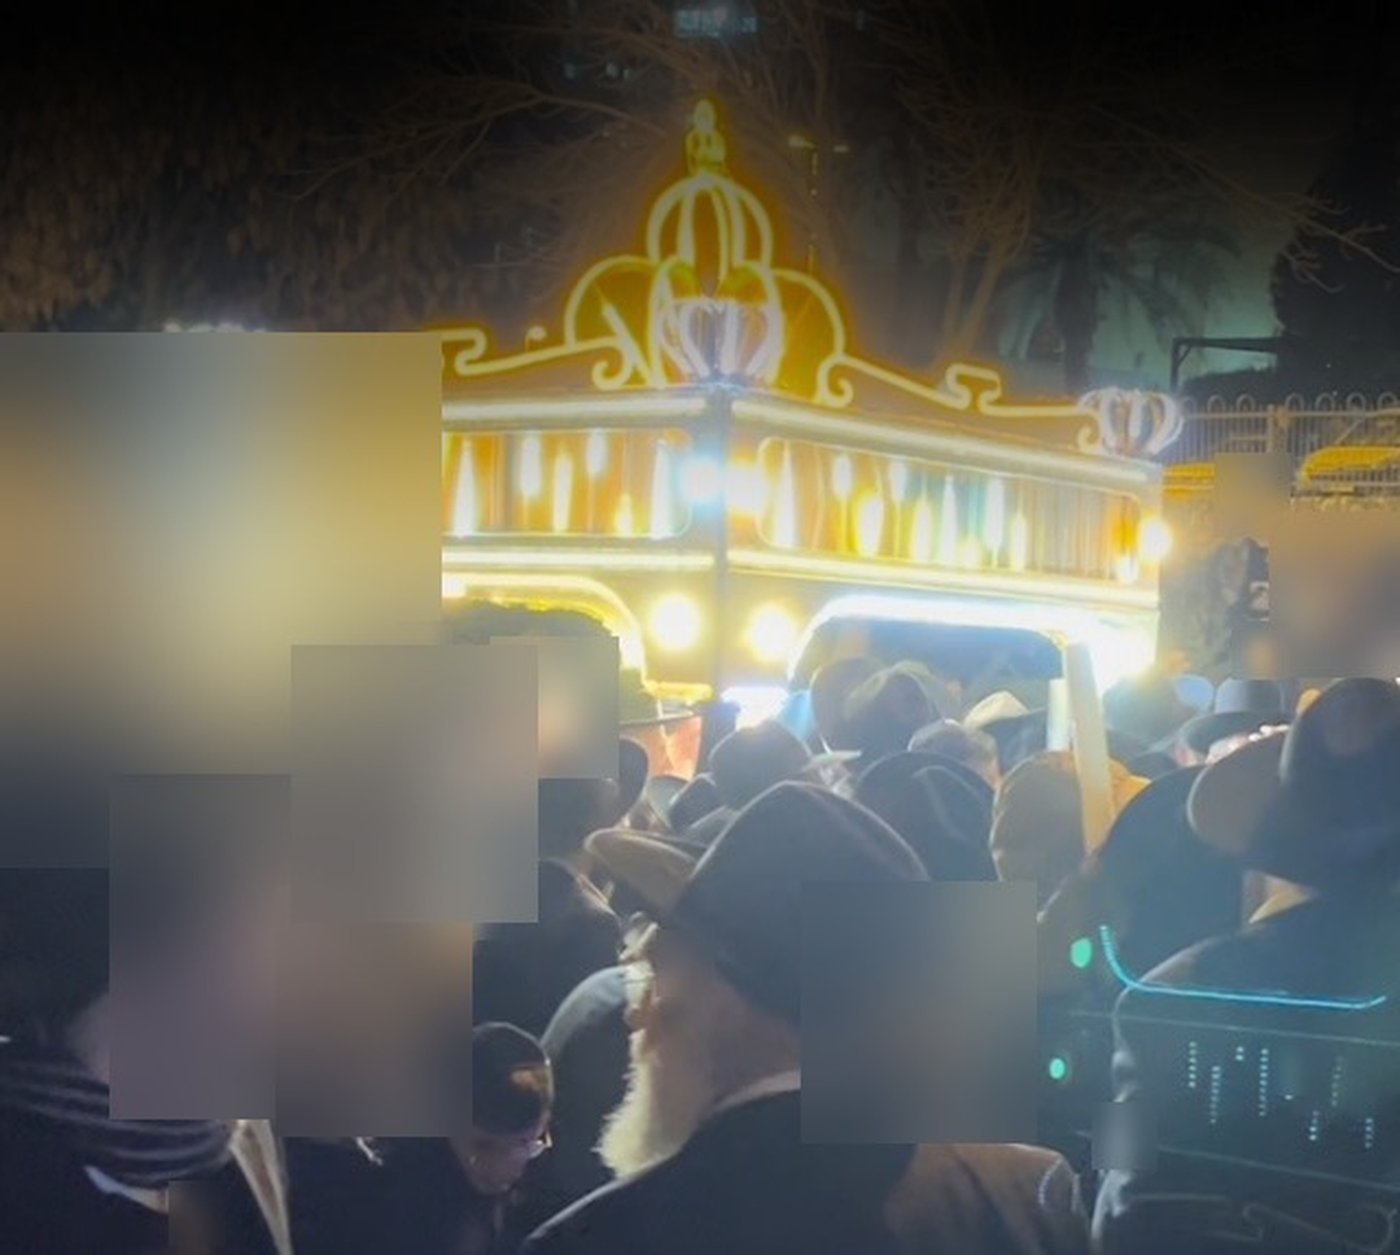
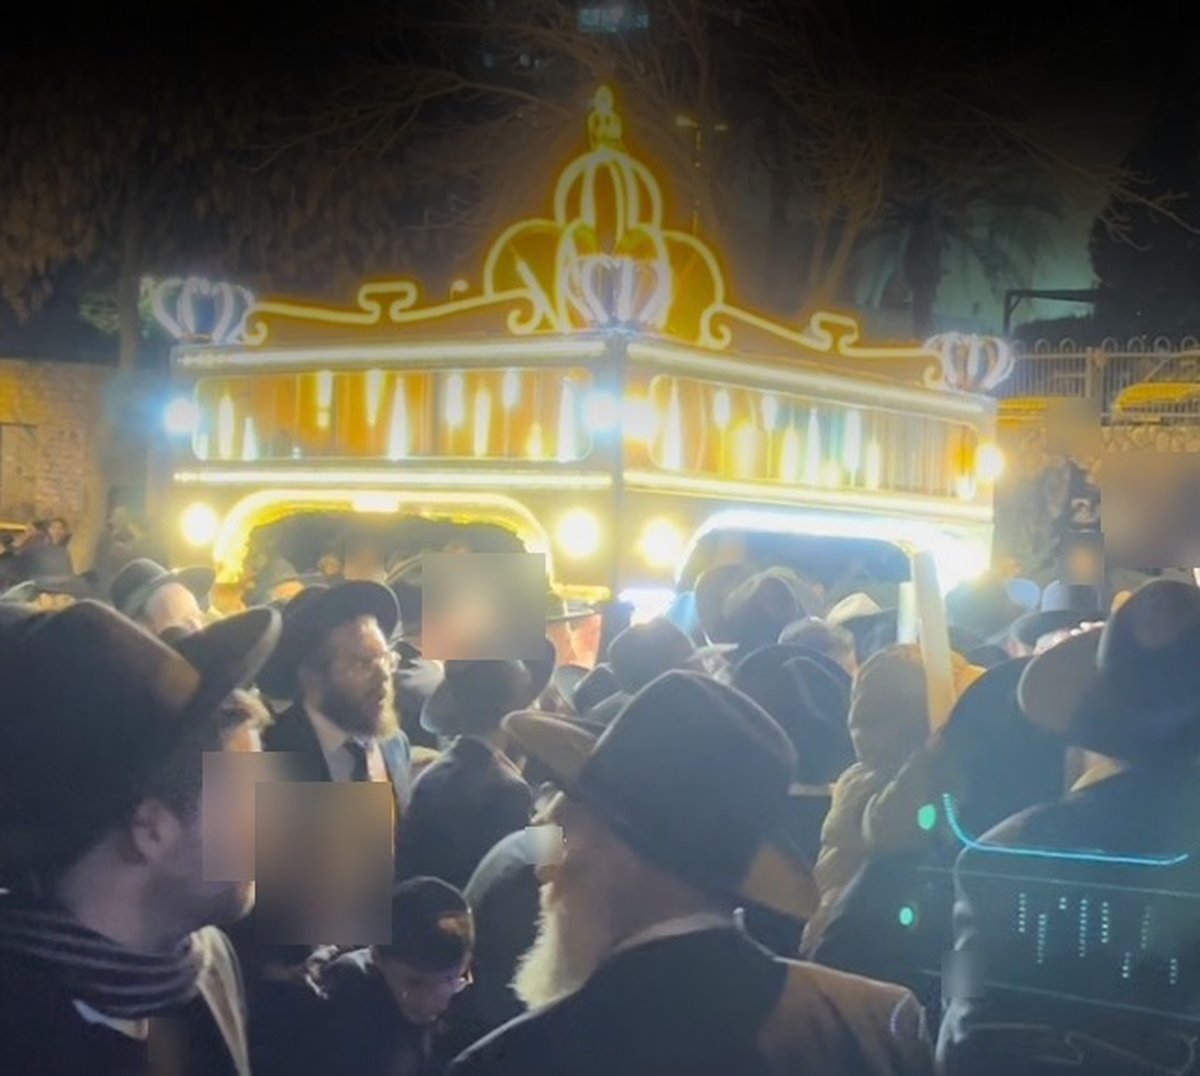
Fix chuppah crop/blur, add hero photo, simplify gallery and contact
- Chuppah showcase image is now a real <img> instead of a
  background-cover div, so the full photo shows uncropped; also
  regenerated it with tighter, better-sized face blurring.
- Added a new hero-section photo (left column) using an uncropped,
  unblurred crop of the chuppah photo with a prominent
  "חופה מרהיבה לבחירתך!!" caption, per explicit request.
- Removed the rightmost gallery photo, leaving 2 symmetric items;
  fixed the car photo's letterbox color from blue to black; cropped
  a second vehicle out of the crowd photo.
- Reversed the contact section: removed the contact form entirely and
  restored phone/WhatsApp/email contact links.

Claude-Session: https://claude.ai/code/session_01D8eu7GUbxEioHt2D6r7AZ8

diff --git a/zvulun-torah-events/index.html b/zvulun-torah-events/index.html
@@ -85,19 +85,25 @@
     <div class="stars" aria-hidden="true"></div>
     <div class="hero-bg" style="background-image:url('images/showcase-crown.jpg')"></div>
     <div class="hero-overlay"></div>
-    <div class="wrap hero-content">
-      <p class="eyelash">ליווי ספר התורה מהבית עד לבית הכנסת בשירה ובריקודים</p>
-      <h1>הכנסת ספר תורה</h1>
-      <p class="lead">רכב מפואר בכתרי תורה, חופה מוארת לבחירתכם!</p>
-      <div class="hero-actions">
-        <a class="btn btn-gold btn-lg" href="tel:0506927171">
-          <svg class="icon" aria-hidden="true"><use href="#icon-phone"/></svg> התקשרו עכשיו: 050-6927171
-        </a>
-        <a class="btn btn-outline btn-lg" href="https://wa.me/972506927171?text=שלום%2C%20אשמח%20לפרטים%20על%20הכנסת%20ספר%20תורה" target="_blank" rel="noopener">
-          <svg class="icon" aria-hidden="true"><use href="#icon-chat"/></svg> וואטסאפ
-        </a>
+    <div class="wrap hero-inner">
+      <div class="hero-content">
+        <p class="eyelash">ליווי ספר התורה מהבית עד לבית הכנסת בשירה ובריקודים</p>
+        <h1>הכנסת ספר תורה</h1>
+        <p class="lead">רכב מפואר בכתרי תורה, חופה מוארת לבחירתכם!</p>
+        <div class="hero-actions">
+          <a class="btn btn-gold btn-lg" href="tel:0506927171">
+            <svg class="icon" aria-hidden="true"><use href="#icon-phone"/></svg> התקשרו עכשיו: 050-6927171
+          </a>
+          <a class="btn btn-outline btn-lg" href="https://wa.me/972506927171?text=שלום%2C%20אשמח%20לפרטים%20על%20הכנסת%20ספר%20תורה" target="_blank" rel="noopener">
+            <svg class="icon" aria-hidden="true"><use href="#icon-chat"/></svg> וואטסאפ
+          </a>
+        </div>
+        <p class="trust-line">ניסיון רב שנים!! כל השמח באירוע שלך!!</p>
       </div>
-      <p class="trust-line">ניסיון רב שנים!! כל השמח באירוע שלך!!</p>
+      <figure class="hero-photo">
+        <img src="images/chuppah-hero.jpg" alt="חופה מרהיבה לבחירתך - חופת גלגלים מוארת בכתרים" width="1000" height="896" loading="eager">
+        <figcaption>חופה מרהיבה לבחירתך!!</figcaption>
+      </figure>
     </div>
   </section>
 
@@ -134,7 +140,7 @@
     <div class="wrap">
       <h2 class="reveal">חופה מרהיבה לבחירתך!!</h2>
       <p class="section-lead reveal">חופת גלגלים מפוארת - מוארת בכתרים ומנורות לדים זוהרים</p>
-      <div class="chuppah-photo reveal" style="background-image:url('images/chuppah-large.jpg')"></div>
+      <img class="chuppah-photo reveal" src="images/chuppah-large.jpg" alt="חופה מרהיבה לבחירתך - חופת גלגלים מוארת בכתרים ומנורות לד" width="1200" height="1076" loading="lazy">
     </div>
   </section>
 
@@ -158,7 +164,6 @@
     <div class="wrap">
       <h2 class="reveal">רגע מהתהלוכה</h2>
       <div class="gallery-grid">
-        <div class="gallery-item reveal" style="background-image:url('images/showcase-crown.jpg')"></div>
         <div class="gallery-item gallery-item-contain reveal" style="background-image:url('images/hero-bg.jpg')"></div>
         <div class="gallery-item reveal" style="background-image:url('images/showcase-crowd.jpg')"></div>
       </div>
@@ -168,23 +173,18 @@
   <section class="section contact-section" id="contact">
     <div class="wrap">
       <h2 class="reveal">יצירת קשר</h2>
-      <form class="contact-form reveal" id="contactForm">
-        <label>שם מלא
-          <input type="text" name="name" required autocomplete="name">
-        </label>
-        <label>טלפון
-          <input type="tel" name="phone" required autocomplete="tel">
-        </label>
-        <label>תאריך האירוע (אם ידוע)
-          <input type="text" name="date" placeholder="לדוגמה: כ״ה בכסלו">
-        </label>
-        <label>פרטים נוספים
-          <textarea name="message" rows="4" placeholder="ספרו לנו קצת על האירוע..."></textarea>
-        </label>
-        <button type="submit" class="btn btn-gold btn-lg btn-block">
-          <svg class="icon" aria-hidden="true"><use href="#icon-chat"/></svg> שליחה בוואטסאפ
-        </button>
-      </form>
+      <p class="section-lead reveal">נשמח לענות על כל שאלה ולתאם את האירוע שלכם</p>
+      <div class="contact-info reveal">
+        <a class="contact-line" href="tel:0506927171">
+          <svg class="icon" aria-hidden="true"><use href="#icon-phone"/></svg> 050-6927171
+        </a>
+        <a class="contact-line" href="https://wa.me/972506927171?text=שלום%2C%20אשמח%20לפרטים%20על%20הכנסת%20ספר%20תורה" target="_blank" rel="noopener">
+          <svg class="icon" aria-hidden="true"><use href="#icon-chat"/></svg> וואטסאפ
+        </a>
+        <a class="contact-line" href="mailto:zvulun8@netvision.net.il">
+          <svg class="icon" aria-hidden="true"><use href="#icon-mail"/></svg> zvulun8@netvision.net.il
+        </a>
+      </div>
     </div>
   </section>
 

diff --git a/zvulun-torah-events/style.css b/zvulun-torah-events/style.css
@@ -137,7 +137,26 @@ a { color: inherit; }
   position: absolute; inset: 0;
   background: linear-gradient(180deg, rgba(10,8,36,.15) 0%, rgba(10,8,36,.92) 100%);
 }
-.hero-content { position: relative; z-index: 2; padding-top: 60px; padding-bottom: 60px; text-align: center; margin: 0 auto; }
+.hero-inner {
+  position: relative; z-index: 2; padding-top: 60px; padding-bottom: 60px;
+  display: flex; align-items: center; gap: 48px;
+}
+.hero-content { flex: 1 1 0; text-align: center; }
+.hero-photo { flex: 1 1 0; max-width: 440px; margin: 0 auto; }
+.hero-photo img {
+  width: 100%; height: auto; border-radius: var(--radius);
+  border: 2px solid rgba(212,175,55,.4); box-shadow: var(--shadow);
+}
+.hero-photo figcaption {
+  display: block; margin-top: 14px; text-align: center;
+  background: linear-gradient(135deg, var(--gold-light), var(--gold));
+  color: #241a04; font-weight: 800; font-size: 19px;
+  padding: 12px 18px; border-radius: 12px;
+  box-shadow: 0 10px 24px rgba(212,175,55,.35);
+}
+.hero-photo { opacity: 0; }
+body.ready .hero-photo { animation: heroRise .7s ease .3s both; }
+@media (prefers-reduced-motion: reduce) { .hero-photo { opacity: 1; animation: none; } }
 .eyelash { color: var(--gold-light); font-weight: 700; letter-spacing: .5px; margin-bottom: 14px; font-size: 18px; }
 .hero h1 {
   font-size: clamp(34px, 6vw, 62px); margin: 0 0 20px; font-weight: 800; line-height: 1.15;
@@ -195,11 +214,10 @@ body.ready .hero-content > h1 { animation: heroRise .7s ease .2s both, titleGlow
 .card h3 { margin: 0; font-size: 17px; }
 .card p { margin: 8px 0 0; color: var(--muted); font-size: 14.5px; }
 
-/* Chuppah showcase */
+/* Chuppah showcase — a real <img>, never cropped */
 .chuppah-photo {
-  aspect-ratio: 16 / 9; max-height: 520px; width: 100%; margin-top: 34px;
-  border-radius: var(--radius); background-color: var(--navy-light);
-  background-size: cover; background-position: center;
+  display: block; width: 100%; max-width: 820px; height: auto; margin: 34px auto 0;
+  border-radius: var(--radius);
   border: 1px solid rgba(212,175,55,.25); box-shadow: var(--shadow);
 }
 
@@ -221,7 +239,7 @@ body.ready .hero-content > h1 { animation: heroRise .7s ease .2s both, titleGlow
 }
 
 /* Gallery */
-.gallery-grid { display: grid; grid-template-columns: repeat(3, 1fr); gap: 16px; }
+.gallery-grid { display: grid; grid-template-columns: repeat(2, 1fr); gap: 16px; max-width: 760px; margin: 0 auto; }
 .gallery-item {
   aspect-ratio: 4 / 3; border-radius: var(--radius);
   background-color: var(--navy-light); background-size: cover; background-position: center;
@@ -232,21 +250,23 @@ body.ready .hero-content > h1 { animation: heroRise .7s ease .2s both, titleGlow
 .gallery-item:hover, .gallery-item:focus-visible {
   transform: scale(1.07); z-index: 5; box-shadow: var(--shadow); border-color: rgba(212,175,55,.4);
 }
-.gallery-item-contain { background-size: contain; background-repeat: no-repeat; }
+.gallery-item-contain { background-color: #000; background-size: contain; background-repeat: no-repeat; }
 
 /* Contact */
 .contact-section { background: linear-gradient(180deg, var(--navy-deep), var(--navy)); }
-.contact-form {
-  max-width: 560px; margin: 0 auto;
+.contact-info {
+  max-width: 420px; margin: 0 auto;
+  display: flex; flex-direction: column; gap: 16px;
+}
+.contact-line {
+  display: flex; align-items: center; justify-content: center; gap: 10px;
   background: rgba(255,255,255,.04); border: 1px solid rgba(255,255,255,.1);
-  border-radius: var(--radius); padding: 30px; display: flex; flex-direction: column; gap: 16px;
+  border-radius: 12px; padding: 16px 20px; font-size: 17px; font-weight: 700;
+  text-decoration: none; color: var(--white);
+  transition: transform .15s ease, border-color .15s ease;
 }
-.contact-form label { display: flex; flex-direction: column; gap: 6px; font-size: 14px; color: var(--muted); }
-.contact-form input, .contact-form textarea {
-  background: rgba(255,255,255,.06); border: 1px solid rgba(255,255,255,.15);
-  border-radius: 8px; padding: 12px 14px; color: var(--white); font-size: 15px; font-family: inherit;
-}
-.contact-form input:focus, .contact-form textarea:focus { outline: 2px solid var(--gold); }
+.contact-line .icon { color: var(--gold); width: 22px; height: 22px; }
+.contact-line:hover { transform: translateY(-2px); border-color: rgba(212,175,55,.5); }
 
 /* Footer */
 .site-footer { background: var(--navy-deep); border-top: 1px solid rgba(255,255,255,.08); padding: 28px 0 90px; }
@@ -279,11 +299,13 @@ body.ready .hero-content > h1 { animation: heroRise .7s ease .2s both, titleGlow
   .card-ico { width: 24px; height: 24px; margin: 0 auto 8px; }
   .card h3 { font-size: 14px; line-height: 1.3; }
   .addons-list { grid-template-columns: repeat(2, 1fr); max-width: 480px; }
+  .hero { min-height: auto; padding: 20px 0; }
+  .hero-inner { flex-direction: column; gap: 32px; }
+  .hero-photo { max-width: 360px; width: 100%; }
 }
 
 @media (max-width: 560px) {
   .gallery-grid { grid-template-columns: 1fr; max-width: 420px; margin: 0 auto; }
-  .chuppah-photo { aspect-ratio: 4 / 3; max-height: none; }
 }
 
 /* Gentle scroll-in reveal */

diff --git a/zvulun-torah-events/script.js b/zvulun-torah-events/script.js
@@ -38,26 +38,3 @@ if (navToggle && mainNav) {
     });
   });
 }
-
-const contactForm = document.getElementById('contactForm');
-if (contactForm) {
-  contactForm.addEventListener('submit', (event) => {
-    event.preventDefault();
-    const data = new FormData(contactForm);
-    const name = (data.get('name') || '').toString().trim();
-    const phone = (data.get('phone') || '').toString().trim();
-    const date = (data.get('date') || '').toString().trim();
-    const message = (data.get('message') || '').toString().trim();
-
-    const lines = [
-      `שלום, שמי ${name}`,
-      `טלפון: ${phone}`,
-      date ? `תאריך האירוע: ${date}` : null,
-      message ? `פרטים נוספים: ${message}` : null,
-      'אשמח לפרטים על הכנסת ספר תורה.',
-    ].filter(Boolean);
-
-    const text = encodeURIComponent(lines.join('\n'));
-    window.open(`https://wa.me/972506927171?text=${text}`, '_blank', 'noopener');
-  });
-}
